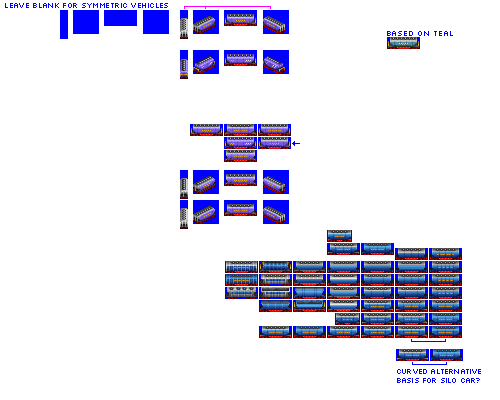
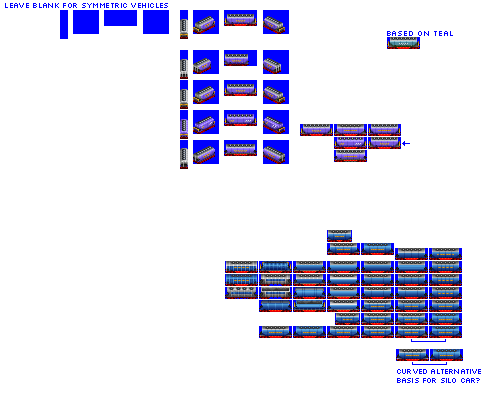
Change: sprites complete for repainted gen 5C type 1 farm product hopper

Changed region(s): [[0.36, 0.12, 0.81, 0.57], [0.36, 0.03, 0.45, 0.09], [0.51, 0.03, 0.57, 0.09]]

diff --git a/src/vehicles/pony/farm_product_hopper_cars_type_1_pony.py b/src/vehicles/pony/farm_product_hopper_cars_type_1_pony.py
@@ -126,7 +126,7 @@ def main(roster_id, **kwargs):
         base_numeric_id=23470,
         gen=5,
         subtype="C",
-        sprites_complete=False,
+        sprites_complete=True,
     )
 
     consist.add_unit(type=FreightCar, chassis="4_axle_chute_greebled_alt_32px")
